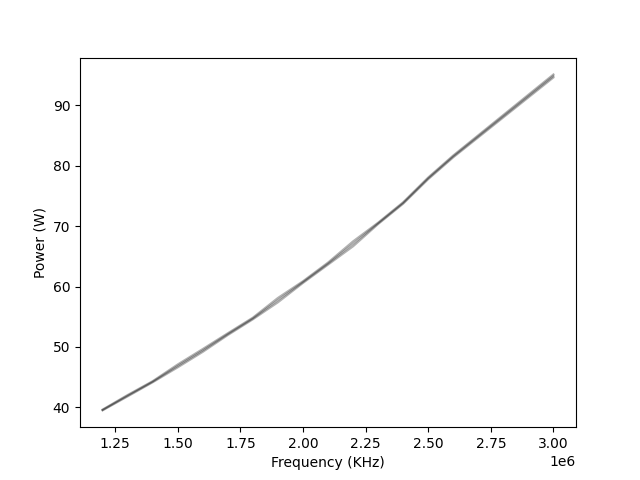
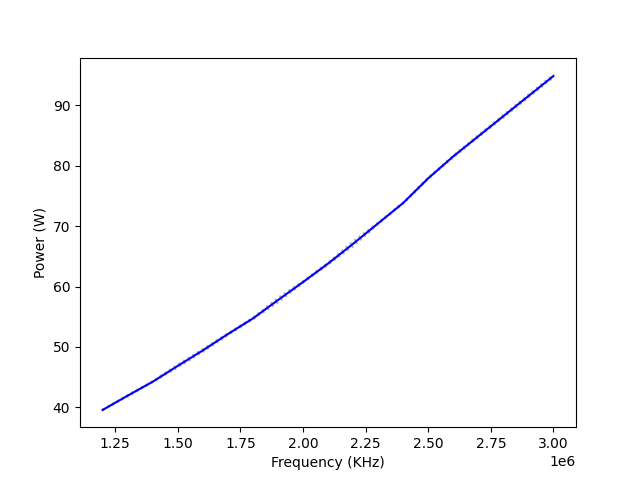
Modified linestyle in plots. Recalculate images.

diff --git a/log/plotdata.py b/log/plotdata.py
@@ -63,16 +63,22 @@ def plot_data(work, data, results):
 
     for item in itemdata:
         label = ''
-        alpha = 0.3
         if data == 'time':
             label = 'Core ' + str(item)
         elif data == 'power':
             label = 'Socket ' + str(item)
-        elif item == -1:
+        if item == -1:
             label = 'Mean'
-            alpha = 1.0
 
-        plt.plot(freqs, itemdata[item], label=label, color='k', alpha=alpha)
+        alpha = 0.3
+        color = 'k'
+        linestyle = ':'
+        if item == -1:
+            alpha = 1.0
+            color = 'b'
+            linestyle = '-'
+
+        plt.plot(freqs, itemdata[item], label=label, color=color, alpha=alpha, linestyle=linestyle)
 
     plt.xlabel('Frequency (KHz)')
     plt.ylabel('Time (ms)' if data == 'time' else 'Power (W)')
